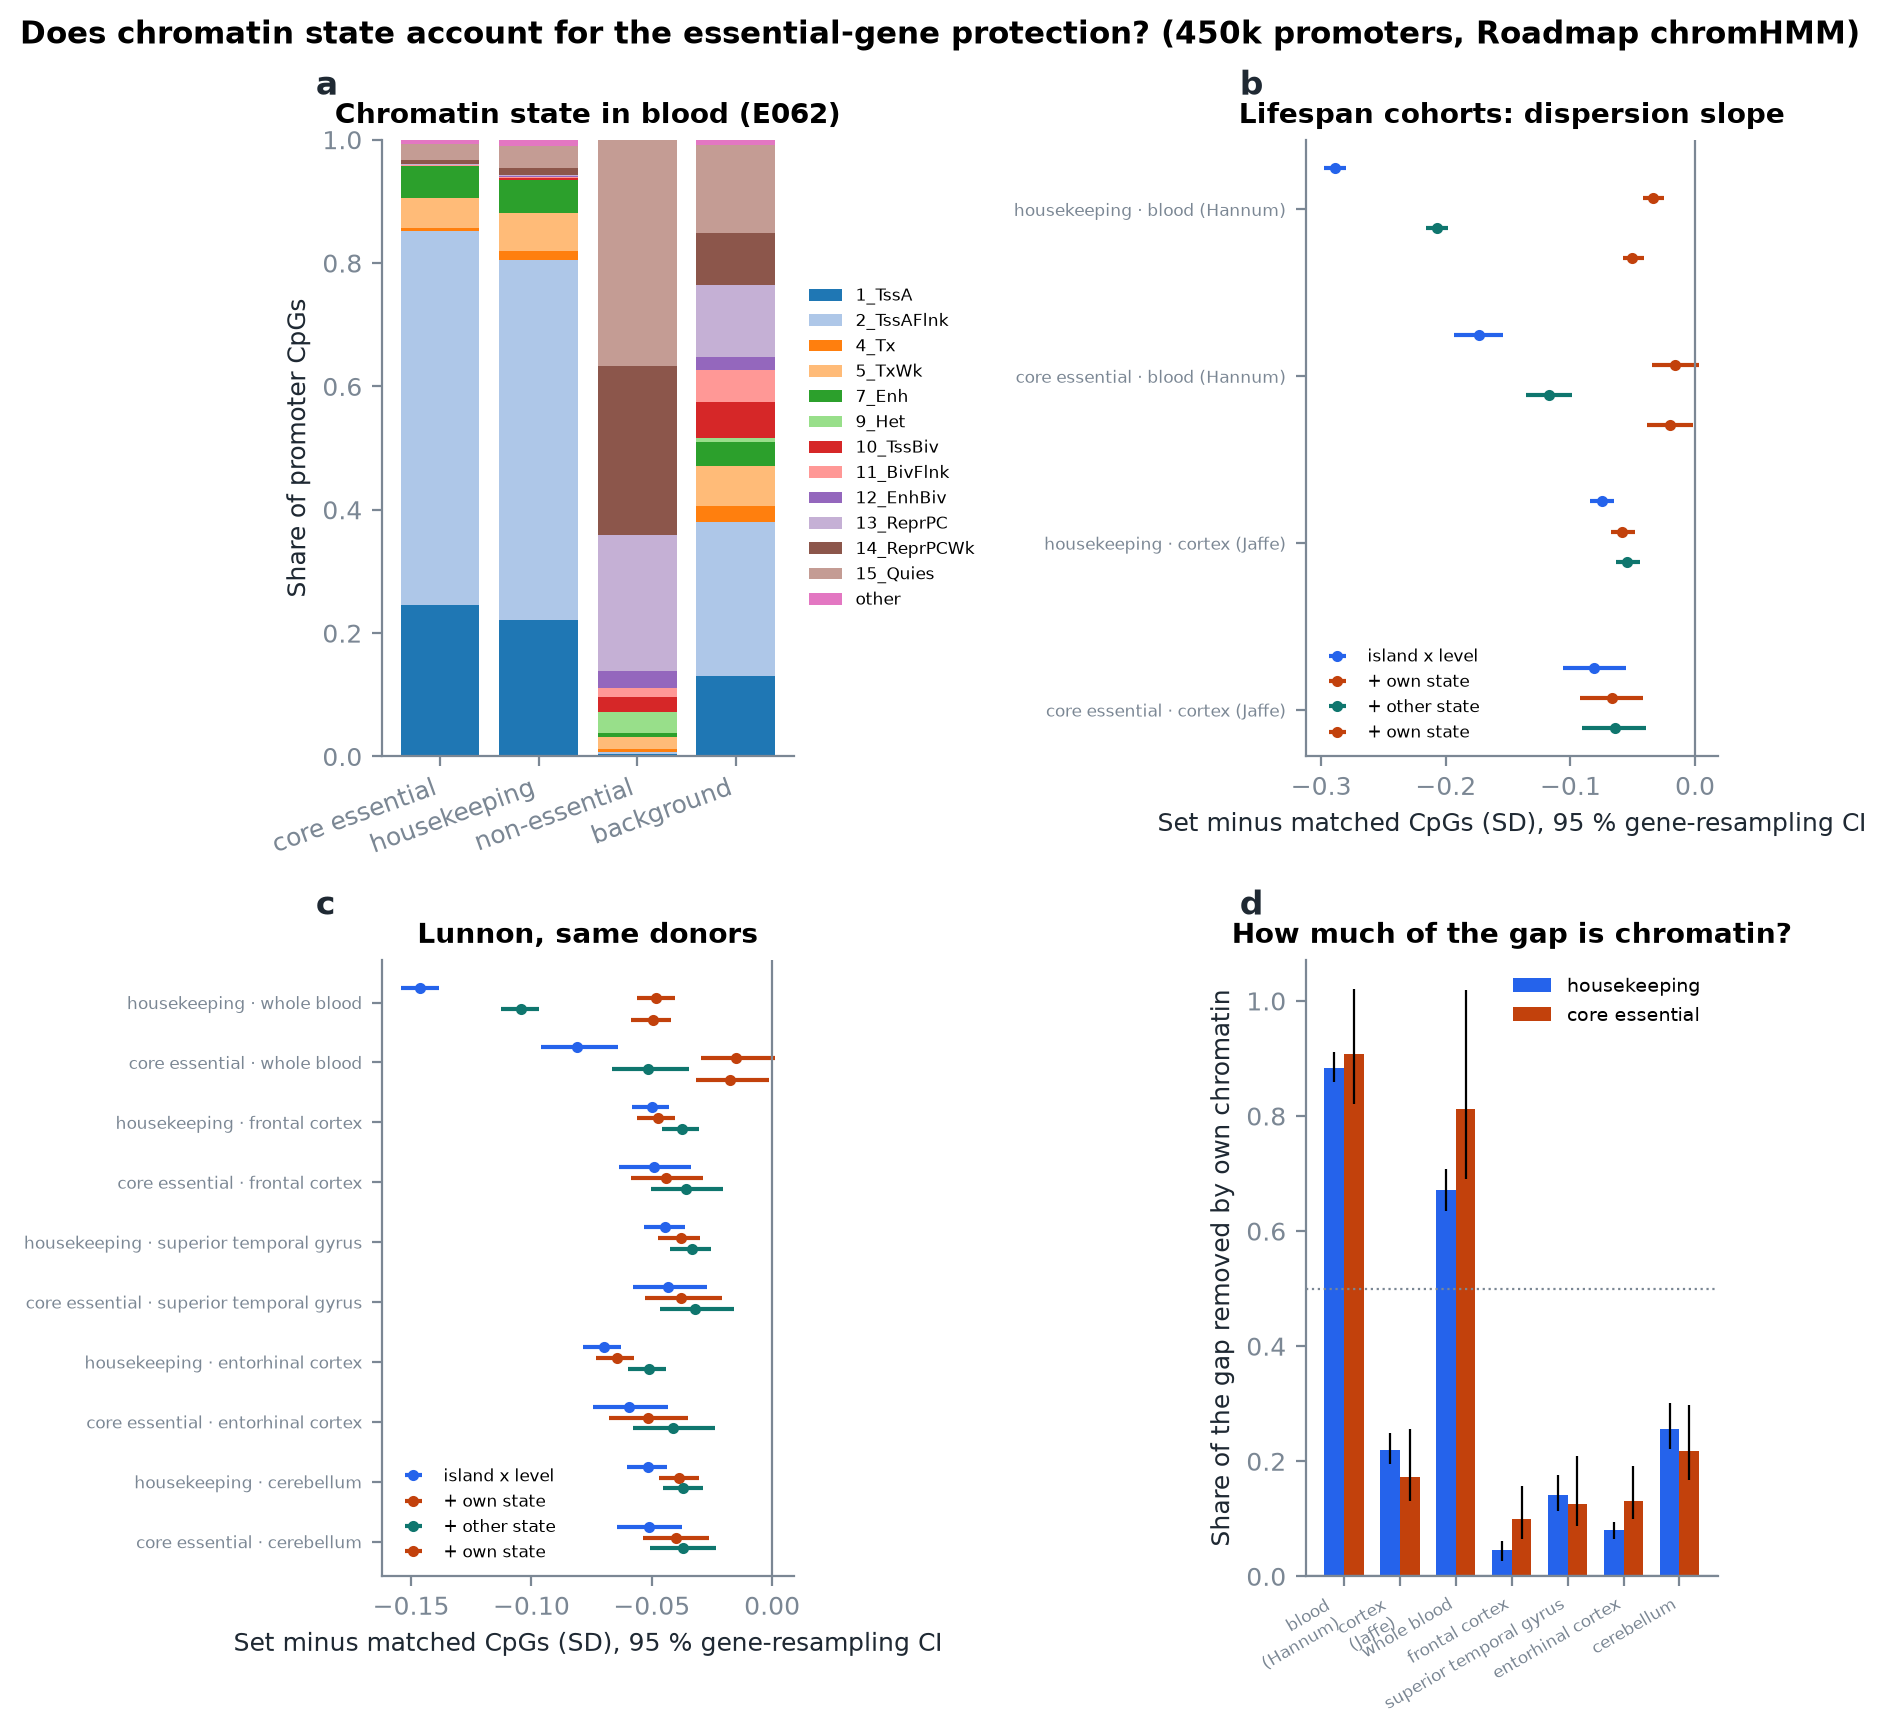
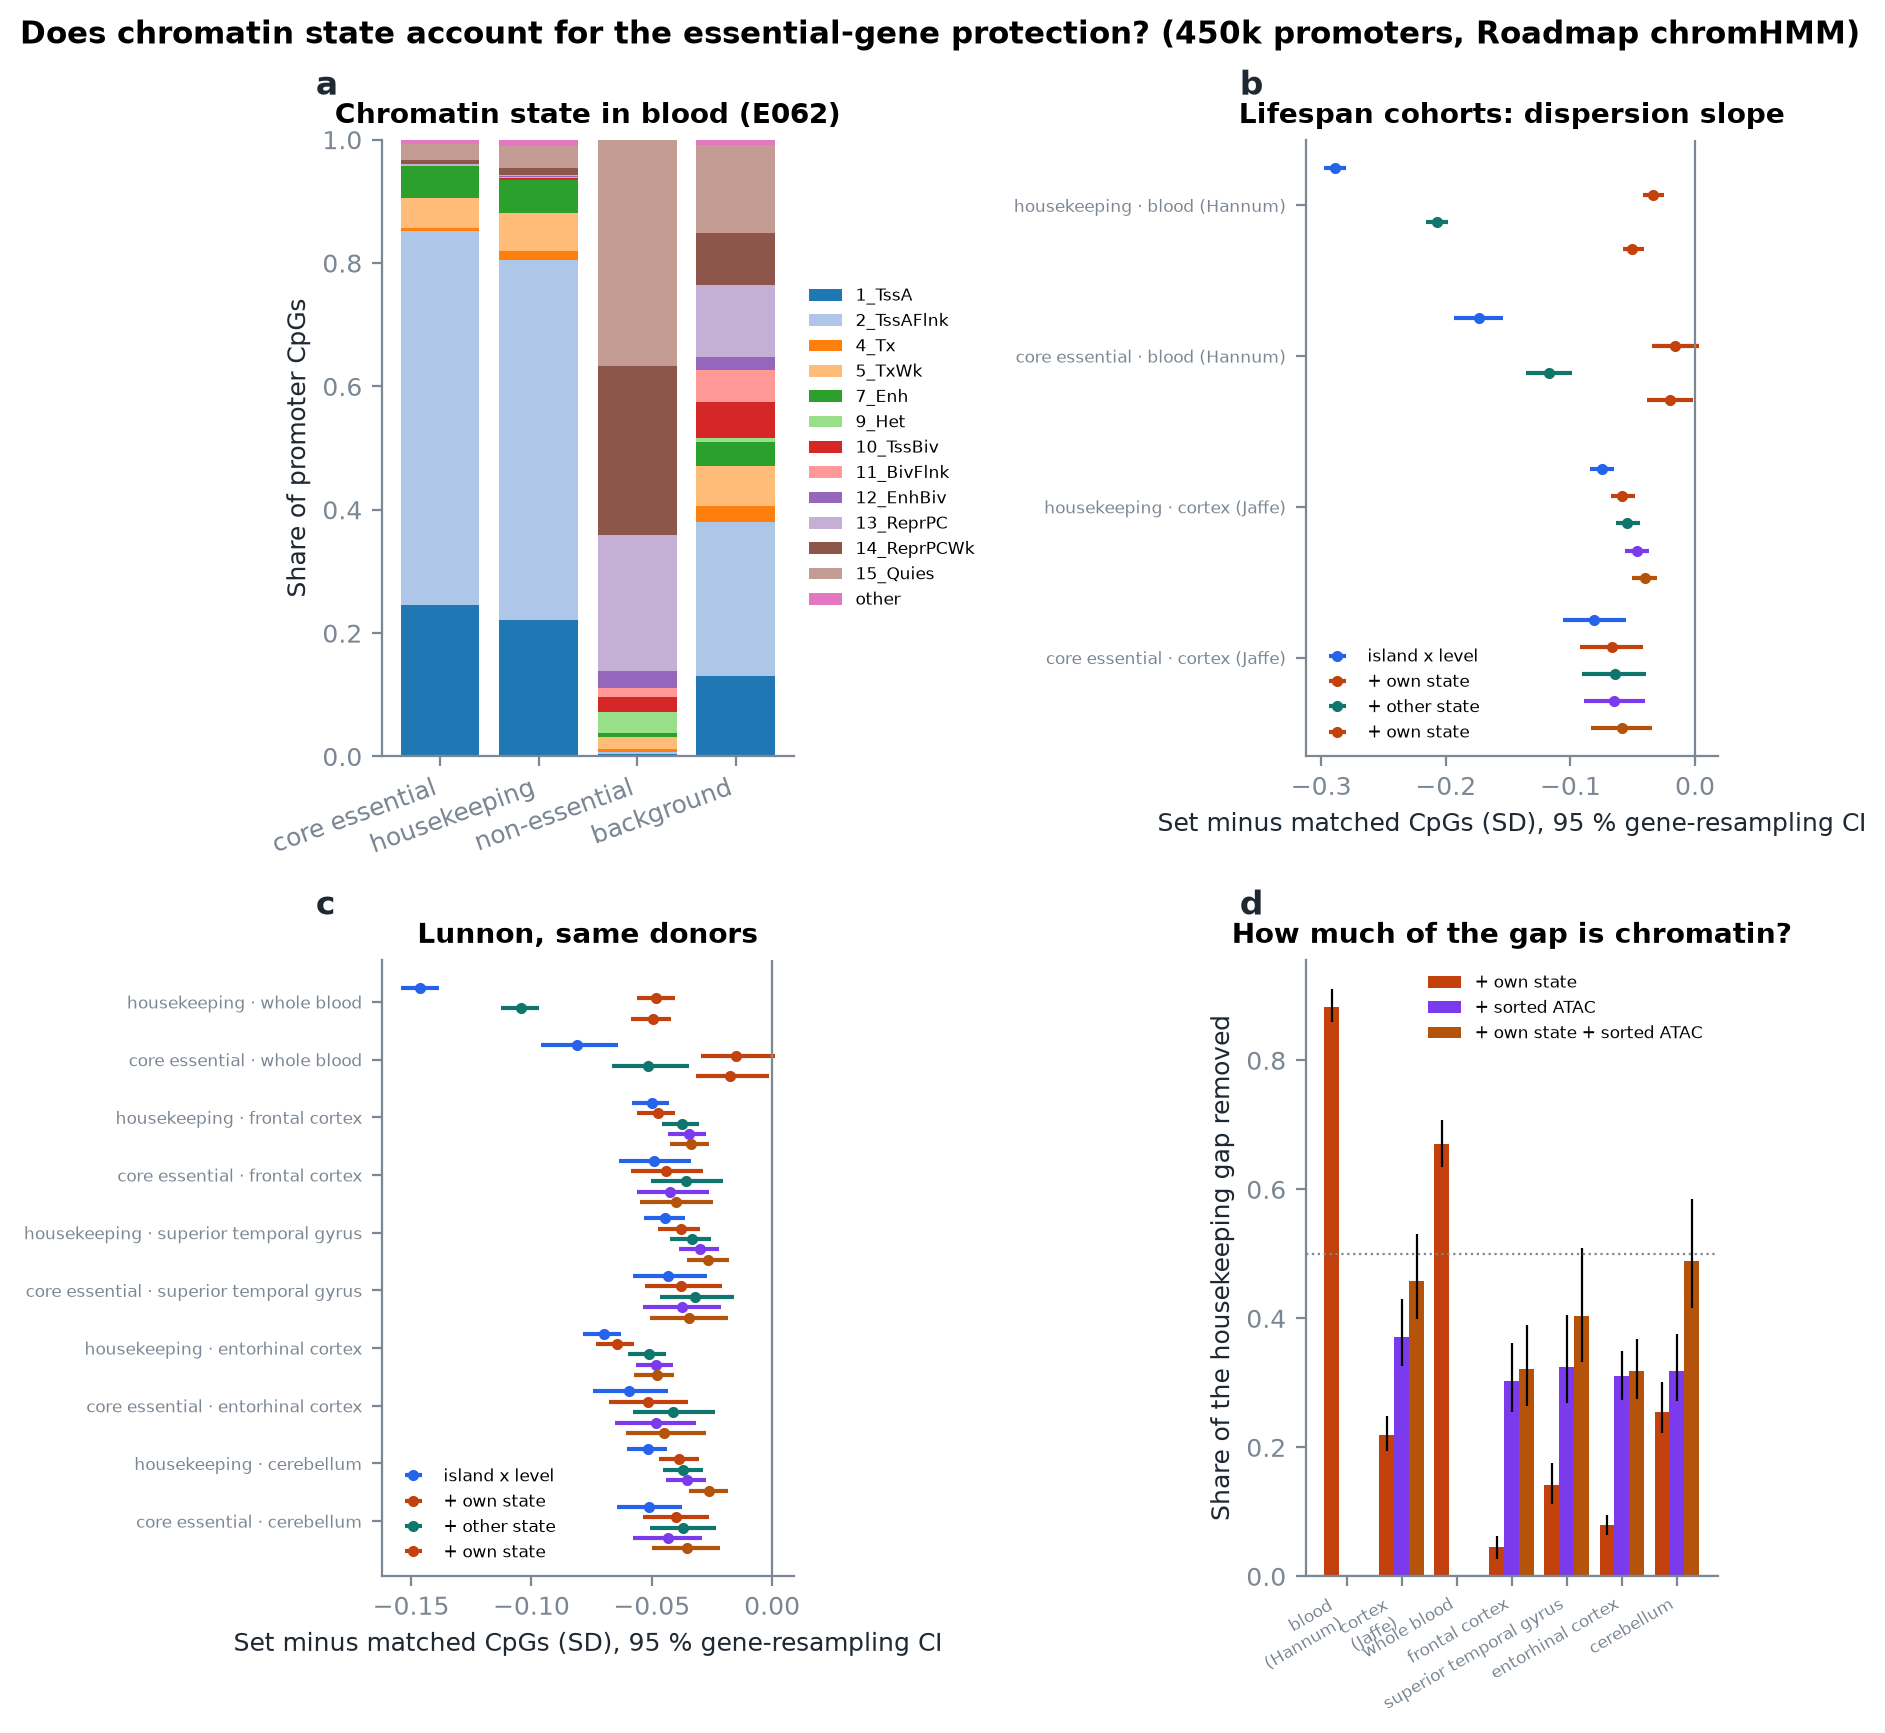
R4 done: the chromatin-matched gap with sorted brain chromatin
Seat: entropy-age/runner
Claude-Session: https://claude.ai/code/session_01TJzjgJACUvbS1joxbZrgzk

diff --git a/docs/RUN_LOG.md b/docs/RUN_LOG.md
@@ -3,6 +3,14 @@
 Owned by the runner seat (`docs/seats/RUNNER.md`): one entry per run, newest first, with its inputs, the
 commit it ran, its job ids, its scale and seed, and its result or its failure with the cause.
 
+## R4 — the chromatin-matched gap with sorted brain chromatin (RM7), 2026-11-11
+
+- Commit b0184a3; `figures chromatin --scale paper --seed 42`; 8 cores, 24 GB asked; job comment set.
+- Job 6428474 completed in 27.8 min, 5.2 GB at peak (the next run fits in 10 GB). It rewrote R3's outputs with the
+  sorted-ATAC matchings added; R3's own numbers are unchanged in them.
+- Result, as measured (housekeeping, brain): sorted neuron and glia accessibility removes 30-37 % of the gap,
+  with the bulk state 32-49 %. The lead's reading is in `docs/extension.md`.
+
 ## R3 — the chromatin-matched gap (RM7), 2026-11-11
 
 - Commit 105cc56; `fetch annotation` (re-prepared the probe table with positions, 5 s, 1.8 GB), then

diff --git a/docs/RUNS.md b/docs/RUNS.md
@@ -12,15 +12,6 @@ grammar (`unattended`, `urgent`, `building`, `after <R-id>` or `after job <slurm
 - the roadmap item it serves (`RMn`);
 - what the lead needs back (a table, a figure, a number), and anything the run must not do.
 
-## R4 — the chromatin-matched gap with sorted brain chromatin
-
-**State:** building · **Owner:** runner (job 6428474)
-
-- Serves **RM7** (is the gap left in brain chromatin a bulk map cannot resolve?).
-- Command, from the clone at b0184a3 or later: `uv run entropy-age figures chromatin --scale paper --seed 42` (all
-  inputs fetched; it rewrites R3's outputs with the new matchings added).
-- Back to the lead: `data/output/chromatin_match/` and `docs/figures/chromatin_match.png`, time and peak memory.
-
 ## R5 — published clocks on the protection map
 
 **State:** building · **Owner:** runner (job 6428487)

diff --git a/docs/CHANGELOG.md b/docs/CHANGELOG.md
@@ -4,6 +4,7 @@ Newest first.
 
 ## Unreleased
 
+- R4 done (27.8 min, 5.2 GB peak): `data/output/chromatin_match/` and the figure rewritten with the sorted-ATAC matchings; R4 leaves the run brief.
 - R5 (published clocks on the protection map, RM8) on the run brief and submitted.
 - RM8, first part: `entropy-age fetch clocks` (16 published clocks from biolearn at a pinned commit, each file hash-checked: chronological, phenotypic, pace, mitotic, stochastic and causal) and figure `clocks`: each clock's CpGs on the protection map (chromatin state in blood and cortex, gene-set shares, drift against matched CpGs with and without chromatin, and the clock's brain-minus-blood offset in Lunnon's donors). Not yet run on the data.
 - R4 (the chromatin-matched gap with sorted brain chromatin, RM7) on the run brief and submitted.

diff --git a/docs/RUN_STATUS.md b/docs/RUN_STATUS.md
@@ -3,6 +3,6 @@
 Owned by the runner seat (`docs/seats/RUNNER.md`): what runs now, what is next, what waits on whom. Times
 are the scheduler's clock.
 
-Nothing runs and nothing is planned. R3 (the chromatin-matched gap) and R2 (the per-person score)
+R5 (published clocks, RM8) runs as job 6428487. R4 (sorted brain chromatin) finished 2026-11-11; R3 (the chromatin-matched gap) and R2 (the per-person score)
 finished 2026-11-11, R1 (GSE179847) 2026-11-10
 (`docs/RUN_LOG.md`).
